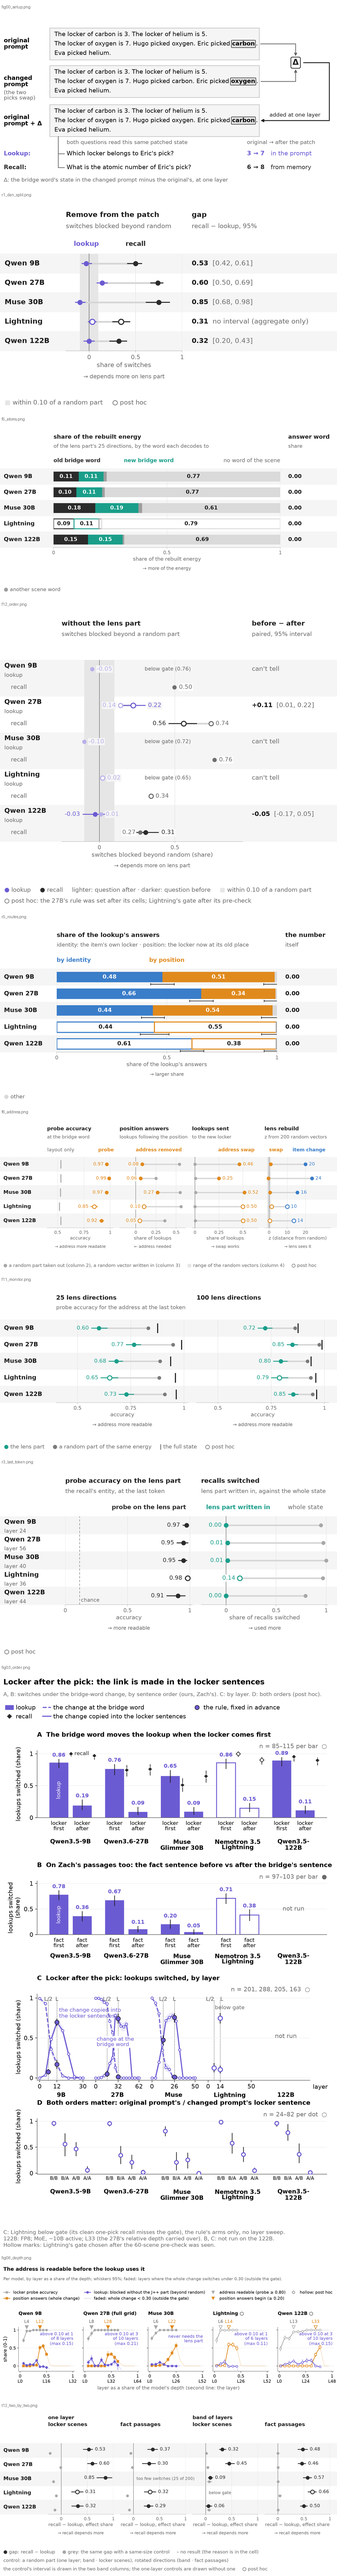
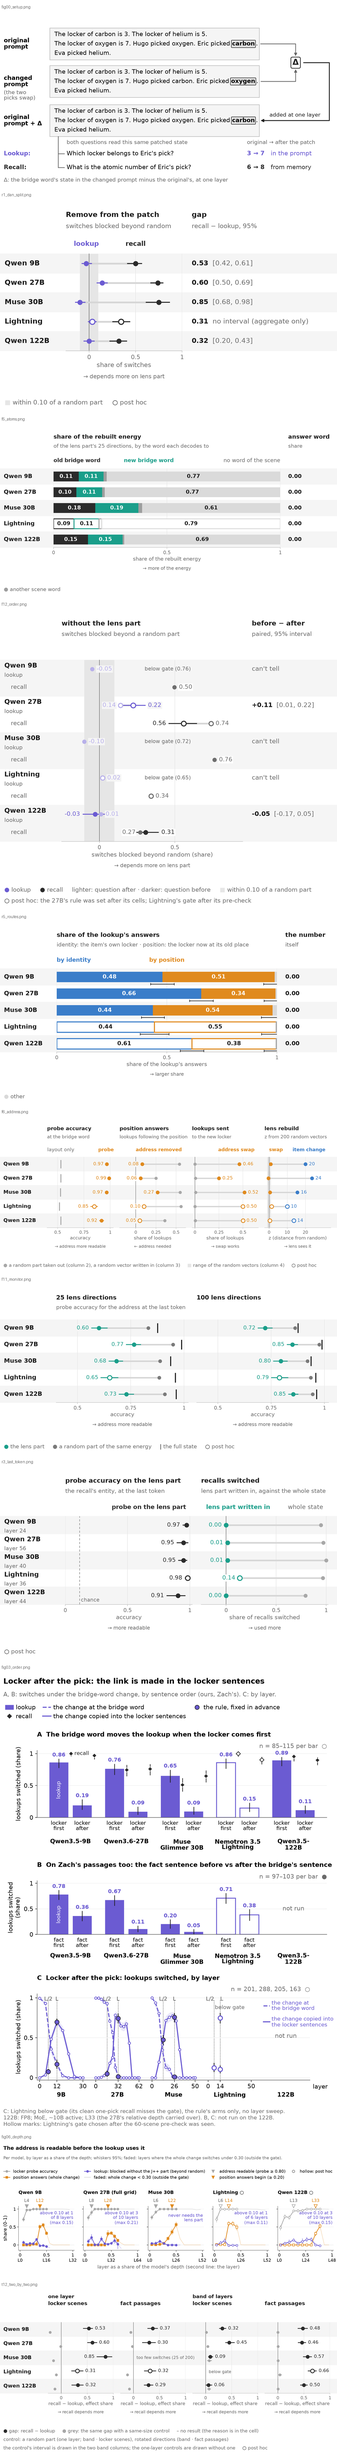
fig03_order: panel D dropped (the post hoc 2x2 lives in the deck's f10b; its rows stay in data.csv, recorded without drawing); panel C's two line labels leave the curves for a direct key in the empty 122B block; the order card's caption follows (Dan 31 Oct)

diff --git a/scripts/readme_story_figures.py b/scripts/readme_story_figures.py
@@ -1275,35 +1275,18 @@ ORDER_SWEEP = (("bw", "the bridge-word change", "--", "o"), ("ls", "the copy int
 BLOCK = 1.3  # Fig. 3 (b): one block per model on one axis, each block the model's layers scaled to [0, 1]
 
 
-def order_both(fig, pos, rows, long_name) -> None:
-    """Panel D of fig03_order: per model four hollow dots (post hoc), original / changed locker sentence before (B) or after (A) the pick, with 95%
-    cluster-bootstrap intervals (results/x0_order_2x2, scripts/x0_order_2x2.py)."""
+def order_both_rows(rows) -> None:
+    """The post hoc 2 x 2 (results/x0_order_2x2, scripts/x0_order_2x2.py): per model four lookup switch rates with 95% cluster-bootstrap intervals, original /
+    changed locker sentence before or after the pick. Recorded for data.csv (the deck's f10b_order_2x2 and the depth README's card read them); not drawn on
+    fig03_order (31 Oct, Dan: panel D lives in f10b)."""
     path = sorted((S.REPO / "results" / "x0_order_2x2").glob("*/tables.json"))[-1]
     t = json.loads(path.read_text())
-    ax = fig.add_axes(pos)
-    cells = (("before", "before", "B/B"), ("before", "after", "B/A"), ("after", "before", "A/B"), ("after", "after", "A/A"))
-    for i, (target, m, _) in enumerate(rows):
-        d = t[target]["cells"]
-        for j, (o, a_, lab) in enumerate(cells):
-            x = i + (j - 1.5) * 0.2
-            r = d[f"original {o} / changed {a_}"]
-            p, lo, hi = r["rate"]
-            ax.plot([x, x], [lo, hi], color="#1e1e1e", lw=1.2, zorder=3)
-            ax.plot([x], [p], "o", color=S.COL["lookup"], ms=7, mfc="white", mec=S.COL["lookup"], mew=1.8, zorder=4)
-            ax.text(x, -0.06, lab, ha="center", va="top", fontsize=S.FONT - 2.5)
-            S.record("fig03", target, f"post hoc, original locker sentence {o} the pick, changed {a_}: lookups switched by the whole change",
-                     round(p, 4), round(lo, 4), round(hi, 4), r["n"], source=rel(path))  # fmt: skip
-        ax.text(i, -0.3, long_name[m], ha="center", va="top", fontsize=S.FONT, weight="bold", linespacing=1.0)
-    ax.set_xlim(-0.6, len(rows) - 0.4)
-    ax.set_ylim(-0.02, 1.05)
-    ax.set_xticks([])
-    ax.set_yticks([0, 0.5, 1], ["0", "0.5", "1"])
-    ax.set_ylabel("lookups switched (share)")
-    ax.grid(axis="y", color="#eeeeee")
-    ax.set_axisbelow(True)
-    ax.set_title("D  Both orders matter: original prompt's / changed prompt's locker sentence", loc="left", fontsize=12,
-                 weight="bold", pad=26)  # fmt: skip
-    S.panel_tag(ax, "24–82 per dot", "after")
+    for target, _m, _ in rows:
+        for o in ("before", "after"):
+            for a_ in ("before", "after"):
+                p, lo, hi = t[target]["cells"][f"original {o} / changed {a_}"]["rate"]
+                S.record("fig03", target, f"post hoc, original locker sentence {o} the pick, changed {a_}: lookups switched by the whole change",
+                         round(p, 4), round(lo, 4), round(hi, 4), t[target]["cells"][f"original {o} / changed {a_}"]["n"], source=rel(path))  # fmt: skip
 
 
 def f03_order(plt) -> None:
@@ -1318,14 +1301,14 @@ def f03_order(plt) -> None:
     The old Fig. 3 with the 122B and its extra-loss panel: figures/depth/supp/s03_order_split; the old Fig. 3b stays
     fig03b_layers until the README drops it. Lightning (batch 52, hollow): A from its conflict test at L14, B from its
     Z1 run (LT_Z1), C not tested (its clean one-pick scenes missed their gate)."""
-    h = 15.0  # the bottom 0.3 in: the 122B's caption line; panel D (both orders, post hoc) at 11.55-13.0 in (the panels keep their places from the top)
+    h = 11.85  # the bottom 0.3 in: the 122B's caption line (the panels keep their places from the top)
     fig = plt.figure(figsize=(S.WIDTH, h))
 
     def box(left: float, width: float, top_in: float, bottom_in: float) -> tuple[float, float, float, float]:
         return (left, 1 - bottom_in / h, width, (bottom_in - top_in) / h)
 
     S.title(fig, "Locker after the pick: the link is made in the locker sentences",
-            "A, B: switches under the bridge-word change, by sentence order (ours, Zach's). C: by layer. D: both orders (post hoc).")  # fmt: skip
+            "A, B: switches under the bridge-word change, by sentence order (ours, Zach's). C: by layer.")  # fmt: skip
     a = fig.add_axes(box(0.11, 0.86, 1.95, 3.7))
     zb = fig.add_axes(box(0.11, 0.86, 5.35, 6.75))  # four models: three-line order labels, two-line names
     b = fig.add_axes(box(0.11, 0.81, 8.3, 10.55))
@@ -1475,6 +1458,10 @@ def f03_order(plt) -> None:
             continue
         if mod is None or mod["run"] not in sweep or "readers" not in mod:
             b.text(x0 + 0.5, 0.5, "not run" if mod is None else "not tested", ha="center", color=S.COL["muted"])
+            if mod is None:  # the empty block names the two lines (31 Oct: the labels left the curves, where they overlapped them)
+                for y, ls, lab in ((0.90, "--", "the change at\nthe bridge word"), (0.70, "-", "the change copied into\nthe locker sentences")):
+                    b.plot([x0 - 0.02, x0 + 0.13], [y, y], color=S.COL["lookup"], ls=ls, lw=2.0, zorder=2)
+                    b.text(x0 + 0.17, y, lab, va="center", ha="left", fontsize=S.FONT - 1, color=S.COL["lookup"], linespacing=1.0)
             continue
         cells = sorted(sweep[mod["run"]]["cells"][X.LOOKUP], key=lambda c: c["layer"])
         last = cells[-1]["layer"]
@@ -1506,14 +1493,6 @@ def f03_order(plt) -> None:
         nq.append(str(mod["sanity"]["pass"]))
         ticks += [at(0), at(la), at(last)]
         tick_labels += ["0", str(la), str(last)]
-        if k == 0:  # the copy's line labelled on the first block
-            peak = max(cells, key=lambda c: c["ls"][0])
-            b.text(at(peak["layer"]) + 0.05, peak["ls"][0] + 0.05, "the change copied into\nthe locker sentences", va="bottom",
-                   fontsize=S.FONT - 1, color=S.COL["lookup"], linespacing=1.0)  # fmt: skip
-        if k == 1:  # Dan (21:50): the panel names its dashed line too, under the 27B's plateau (empty there)
-            b.text(at(cells[0]["layer"]) + 0.02, 0.45, "change at the\nbridge word", va="center", ha="left",
-                   fontsize=S.FONT - 1, color=S.COL["lookup"], linespacing=1.0, zorder=4,
-                   bbox={"boxstyle": "square,pad=0.1", "fc": "white", "ec": "none"})  # fmt: skip
     b.set_xlim(-0.06, (len(blocks) - 1) * BLOCK + 1.06)
     b.set_xticks(ticks, tick_labels)
     b.set_ylim(-0.03, 1.05)
@@ -1523,9 +1502,8 @@ def f03_order(plt) -> None:
     b.grid(axis="y", color="#eeeeee")
     b.set_axisbelow(True)
     S.panel_tag(b, ", ".join(nq), "after")
-    # (d) post hoc, CPU (results/x0_order_2x2): the lookup's switch under the whole change by both orders: the original prompt's bridge locker
-    # sentence before / after the asked pick x the changed prompt's (the changed pick names the new bridge; the lockers stay put)
-    order_both(fig, box(0.11, 0.86, 11.55, 13.0), rows, long_name)
+    # the post hoc 2 x 2 (both orders) is not drawn here any more (deck: f10b_order_2x2); its rows stay in data.csv
+    order_both_rows(rows)
     hs = [plt.Rectangle((0, 0), 1, 1, color=S.COL["lookup"]),
           plt.Line2D([], [], marker="D", ls="", color=S.COL["recall"], ms=5.5),
           plt.Line2D([], [], color=S.COL["lookup"], ls="--", lw=2.0), plt.Line2D([], [], color=S.COL["lookup"], lw=2.0),

diff --git a/docs/depth/README.md b/docs/depth/README.md
@@ -31,7 +31,7 @@
 
 *Each claim of the claims table, per model: the verdict of the test behind it. ○: post hoc (Lightning everywhere, the 122B where its gate was lowered); a cell with no result says why: not run, or below its gate.*
 
-**Status.** Five models: Qwen3.5-9B, Qwen3.6-27B, Muse Glimmer 30B (another family), Nemotron 3.5 Lightning 30B-A3B (a third family, a Mamba-attention hybrid) and Qwen3.5-122B-A10B (FP8; MoE, ~10B active) where it ran; 29 Oct 2026. Hand-checked on a sample: 46 items across views a-g (5-10 per view, fixed in advance), all consistent; 6 issues and 6 observations logged in [docs/review/handcheck_findings.md](../review/handcheck_findings.md), none changes a headline claim.<!-- src: docs/review/handcheck_findings.md | 46 items across views a-g --> VERIFIED.md (human recomputation) not yet filled. Results whose views were not hand-checked (the last-token conflict test and the identity-and-address test, the 122B's coverage runs) are marked "pending hand-check". Built at d4862ee8 from the run files. Lightning ran on the rules already fixed for the other models, with no prediction of its own; its marks are hollow ○ everywhere: its gate was chosen after the 60-scene pre-check was seen. The 122B's caveats: FP8, its J++ lens fit on the bf16 weights; its layer, L33<!-- src: docs/depth/x0_numbers.json | layer_122b -->, set by another rule (the 27B's relative depth carried over: 0.69<!-- src: data/figures/depth/data.csv | L as a relative depth (L / the number of layers) -->); its gates lowered to 0.75 post hoc for the routes, address and swap tests (hollow ○); its numbers carry ~±0.04<!-- src: data/figures/depth/data.csv | 53.1: run-to-run noise beyond the bootstrap (Dan's estimate) --> run-to-run noise beyond the bootstrap. Its lookup having no switches blocked beyond random means the 27B's weakness is not a total-size trend; active parameters are not separated; its recall effect is the smallest of the five (0.32<!-- src: docs/depth/x0_numbers.json | rc_excess_122b -->) and mixed on varied scenes (0.15<!-- src: docs/depth/x0_numbers.json | x0b_c_122b -->), which we cannot separate from its later layer or FP8. Nemotron 3.5 Bolt is out of scope: no J++ lens exists for it.
+**Status.** Five models: Qwen3.5-9B, Qwen3.6-27B, Muse Glimmer 30B (another family), Nemotron 3.5 Lightning 30B-A3B (a third family, a Mamba-attention hybrid) and Qwen3.5-122B-A10B (FP8; MoE, ~10B active) where it ran; 29 Oct 2026. Hand-checked on a sample: 46 items across views a-g (5-10 per view, fixed in advance), all consistent; 6 issues and 6 observations logged in [docs/review/handcheck_findings.md](../review/handcheck_findings.md), none changes a headline claim.<!-- src: docs/review/handcheck_findings.md | 46 items across views a-g --> VERIFIED.md (human recomputation) not yet filled. Results whose views were not hand-checked (the last-token conflict test and the identity-and-address test, the 122B's coverage runs) are marked "pending hand-check". Built at 30bef83e from the run files. Lightning ran on the rules already fixed for the other models, with no prediction of its own; its marks are hollow ○ everywhere: its gate was chosen after the 60-scene pre-check was seen. The 122B's caveats: FP8, its J++ lens fit on the bf16 weights; its layer, L33<!-- src: docs/depth/x0_numbers.json | layer_122b -->, set by another rule (the 27B's relative depth carried over: 0.69<!-- src: data/figures/depth/data.csv | L as a relative depth (L / the number of layers) -->); its gates lowered to 0.75 post hoc for the routes, address and swap tests (hollow ○); its numbers carry ~±0.04<!-- src: data/figures/depth/data.csv | 53.1: run-to-run noise beyond the bootstrap (Dan's estimate) --> run-to-run noise beyond the bootstrap. Its lookup having no switches blocked beyond random means the 27B's weakness is not a total-size trend; active parameters are not separated; its recall effect is the smallest of the five (0.32<!-- src: docs/depth/x0_numbers.json | rc_excess_122b -->) and mixed on varied scenes (0.15<!-- src: docs/depth/x0_numbers.json | x0b_c_122b -->), which we cannot separate from its later layer or FP8. Nemotron 3.5 Bolt is out of scope: no J++ lens exists for it.
 
 ## The question and the setup
 
@@ -531,11 +531,11 @@ Hand-checked on a sample: 46 items across views a-g (5-10 per view, fixed in adv
 - **Question.** Does the bridge word redirect the lookup only when its locker sentence came first?
 - **Why we asked.** The bridge word can only point back: if the locker sentence comes after it, the link must be made elsewhere.
 - **Data.** Main test, 200 scenes per model, split by where the item's locker sentence sits: before the pick 100<!-- src: docs/depth/x0_numbers.json | lk_order_before_9b_n --> / 101<!-- src: docs/depth/x0_numbers.json | lk_order_before_27b_n --> / 92<!-- src: docs/depth/x0_numbers.json | lk_order_before_muse_n --> / 85<!-- src: docs/depth/x0_numbers.json | lk_order_before_lightning_n --> / 85<!-- src: docs/depth/x0_numbers.json | lk_order_before_122b_n -->, after it 100<!-- src: docs/depth/x0_numbers.json | lk_order_after_9b_n --> / 99<!-- src: docs/depth/x0_numbers.json | lk_order_after_27b_n --> / 108<!-- src: docs/depth/x0_numbers.json | lk_order_after_muse_n --> / 115<!-- src: docs/depth/x0_numbers.json | lk_order_after_lightning_n --> / 115<!-- src: docs/depth/x0_numbers.json | lk_order_after_122b_n --> (9B / 27B / Muse / Lightning ○ / 122B); Zach's passages by whether the fact sentence comes before the sentence naming the bridge; clean one-pick scenes with the locker after the pick.
-- **Method.** The lookup's switch under the change at the bridge word, by sentence order; on Zach's passages, the fact sentence before vs after; with the locker after the pick, the change at the bridge word against the same change copied into the locker sentences, by layer. Post hoc, a 2 × 2: the original prompt's locker sentence before or after the pick, and the changed prompt's.
+- **Method.** The lookup's switch under the change at the bridge word, by sentence order; on Zach's passages, the fact sentence before vs after; with the locker after the pick, the change at the bridge word against the same change copied into the locker sentences, by layer. Post hoc, a 2 × 2 (Result): the original prompt's locker sentence before or after the pick, and the changed prompt's.
 - **Rule, fixed in advance.** None for the split (read after the data, descriptive); Zach's split and the copy test's arms were fixed in advance.
 
 ![Locker after the pick: the link is made in the locker sentences](../../figures/depth/fig03_order.png)
-*Lookups switched by the change at the bridge word, by sentence order (A: ours; B: Zach's passages); by layer, the change at the bridge word against the change copied into the locker sentences (C); the original prompt's and the changed prompt's locker sentence, before or after the pick (D, post hoc). 95% intervals (cluster bootstrap over bridge entities), n per panel; Lightning hollow ○ (gate chosen after its pre-check); the 122B not run in B and (C). Panel A was hand-checked on a sample (view g); B, (C) and D were not.*
+*Lookups switched by the change at the bridge word, by sentence order (A: ours; B: Zach's passages); by layer, the change at the bridge word against the change copied into the locker sentences (C). 95% intervals (cluster bootstrap over bridge entities), n per panel; Lightning hollow ○ (gate chosen after its pre-check); the 122B not run in B and (C). Panel A was hand-checked on a sample (view g); B and (C) were not. The post hoc 2 × 2 (both orders) is in the Result below and in the deck's f10b figure.*
 
 - **Result.**
   - Locker first / after, lookups switched by the whole change: 9B 86%<!-- src: docs/depth/x0_numbers.json | lk_order_before_9b --> / 19%<!-- src: docs/depth/x0_numbers.json | lk_order_after_9b -->, 27B 76%<!-- src: docs/depth/x0_numbers.json | lk_order_before_27b --> / 9%<!-- src: docs/depth/x0_numbers.json | lk_order_after_27b -->, Muse 65%<!-- src: docs/depth/x0_numbers.json | lk_order_before_muse --> / 9%<!-- src: docs/depth/x0_numbers.json | lk_order_after_muse -->, Lightning ○ 86%<!-- src: docs/depth/x0_numbers.json | lk_order_before_lightning --> / 15%<!-- src: docs/depth/x0_numbers.json | lk_order_after_lightning -->, 122B 89%<!-- src: docs/depth/x0_numbers.json | lk_order_before_122b --> / 11%<!-- src: docs/depth/x0_numbers.json | lk_order_after_122b -->.

diff --git a/docs/depth/README.template.md b/docs/depth/README.template.md
@@ -515,11 +515,11 @@ Hand-checked on a sample: 46 items across views a-g (5-10 per view, fixed in adv
 - **Question.** Does the bridge word redirect the lookup only when its locker sentence came first?
 - **Why we asked.** The bridge word can only point back: if the locker sentence comes after it, the link must be made elsewhere.
 - **Data.** Main test, 200 scenes per model, split by where the item's locker sentence sits: before the pick {{num|lk_order_before_9b_n}} / {{num|lk_order_before_27b_n}} / {{num|lk_order_before_muse_n}} / {{num|lk_order_before_lightning_n}} / {{num|lk_order_before_122b_n}}, after it {{num|lk_order_after_9b_n}} / {{num|lk_order_after_27b_n}} / {{num|lk_order_after_muse_n}} / {{num|lk_order_after_lightning_n}} / {{num|lk_order_after_122b_n}} (9B / 27B / Muse / Lightning ○ / 122B); Zach's passages by whether the fact sentence comes before the sentence naming the bridge; clean one-pick scenes with the locker after the pick.
-- **Method.** The lookup's switch under the change at the bridge word, by sentence order; on Zach's passages, the fact sentence before vs after; with the locker after the pick, the change at the bridge word against the same change copied into the locker sentences, by layer. Post hoc, a 2 × 2: the original prompt's locker sentence before or after the pick, and the changed prompt's.
+- **Method.** The lookup's switch under the change at the bridge word, by sentence order; on Zach's passages, the fact sentence before vs after; with the locker after the pick, the change at the bridge word against the same change copied into the locker sentences, by layer. Post hoc, a 2 × 2 (Result): the original prompt's locker sentence before or after the pick, and the changed prompt's.
 - **Rule, fixed in advance.** None for the split (read after the data, descriptive); Zach's split and the copy test's arms were fixed in advance.
 
 ![Locker after the pick: the link is made in the locker sentences](figures/depth/fig03_order.png)
-*Lookups switched by the change at the bridge word, by sentence order (A: ours; B: Zach's passages); by layer, the change at the bridge word against the change copied into the locker sentences (C); the original prompt's and the changed prompt's locker sentence, before or after the pick (D, post hoc). {{q|95%}} intervals (cluster bootstrap over bridge entities), n per panel; Lightning hollow ○ (gate chosen after its pre-check); the 122B not run in B and (C). Panel A was hand-checked on a sample (view g); B, (C) and D were not.*
+*Lookups switched by the change at the bridge word, by sentence order (A: ours; B: Zach's passages); by layer, the change at the bridge word against the change copied into the locker sentences (C). {{q|95%}} intervals (cluster bootstrap over bridge entities), n per panel; Lightning hollow ○ (gate chosen after its pre-check); the 122B not run in B and (C). Panel A was hand-checked on a sample (view g); B and (C) were not. The post hoc 2 × 2 (both orders) is in the Result below and in the deck's f10b figure.*
 
 - **Result.**
   - Locker first / after, lookups switched by the whole change: 9B {{num|lk_order_before_9b}} / {{num|lk_order_after_9b}}, 27B {{num|lk_order_before_27b}} / {{num|lk_order_after_27b}}, Muse {{num|lk_order_before_muse}} / {{num|lk_order_after_muse}}, Lightning ○ {{num|lk_order_before_lightning}} / {{num|lk_order_after_lightning}}, 122B {{num|lk_order_before_122b}} / {{num|lk_order_after_122b}}.
